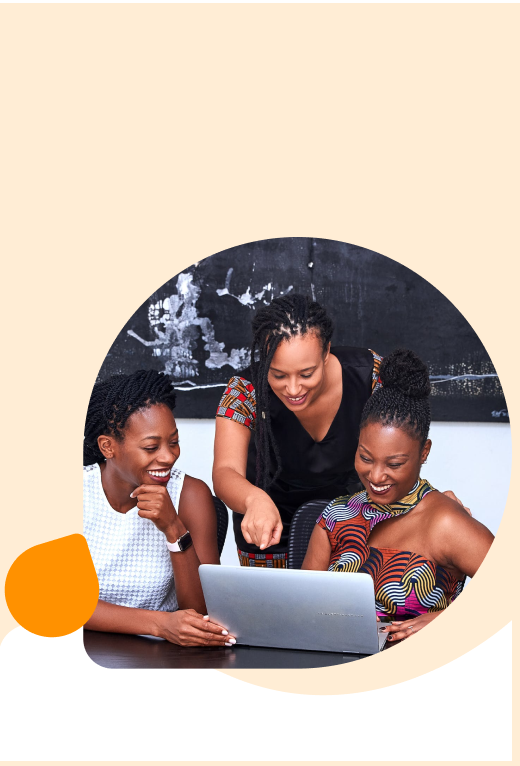
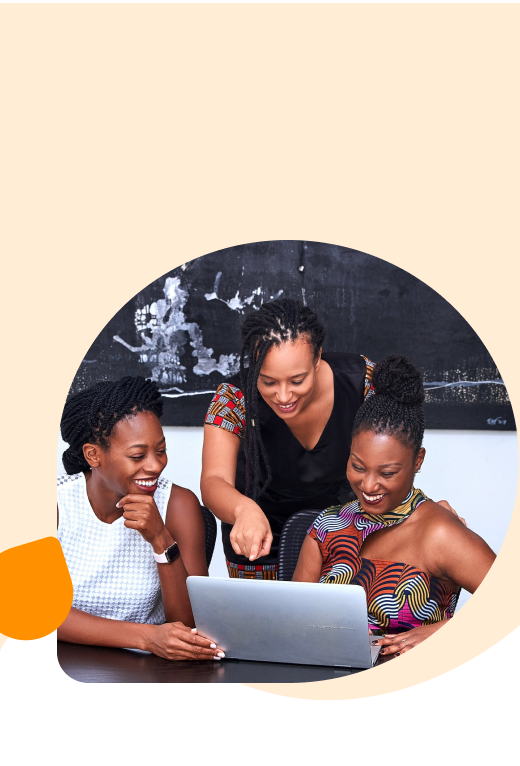
...our story

diff --git a/src/components/OurStory/style.scss b/src/components/OurStory/style.scss
@@ -27,22 +27,41 @@
         }
 
         .ourStory_bodyVideo{
-            width: 626px;
+            width: 100%;
             height: 424px;
-            background: url('../../assets/images/ourStoryImages/videoBg.png');
-            background-size: cover;
-            background-position: bottom right;
-            background-repeat: no-repeat;
-
+            
+            @media screen and (min-width: 900px) {
+                width: 55%;
+                background: url('../../assets/images/ourStoryImages/videoBg.png');
+                background-size: cover;
+                background-position: bottom;
+                background-repeat: no-repeat;
+                
+            }
+            
             .videoPlayer{
                 height: 354px;
-                width: 588px;
+                width: 100%;
                 border-radius: 16px;
+                background: $assets;
+
+                @media screen and (min-width: 900px) {
+                    max-width: 588px;
+                    
+                }
             }
         }
-
+        
         .ourStory_bodyText{
-            width: 510px;
+            width: 100%;
+            text-align: justify;
+
+            @media screen and (min-width: 900px) {
+                width: 45%;
+                max-width: 510px;
+                text-align: left;
+            }
+
             .ourStory_title{
                 color: $black;
                 margin-bottom: 1.5rem;

diff --git a/src/components/OurStory/index.jsx b/src/components/OurStory/index.jsx
@@ -7,15 +7,6 @@ export default function OurStory() {
       <div className="ourStory_content">
         <div className="ourStory_bodyVideo">
           <div className="videoPlayer">
-            <iframe
-              width="560"
-              height="315"
-              src="https://www.youtube.com/embed/9bZkp7q19f0"
-              frameborder="0"
-              allow="accelerometer; autoplay; encrypted-media; gyroscope; picture-in-picture"
-              allowfullscreen
-              title="video"
-            ></iframe>
           </div>
         </div>
         <div className="ourStory_bodyText">

diff --git a/src/components/AboutHero/style.scss b/src/components/AboutHero/style.scss
@@ -10,8 +10,8 @@
     padding: 2rem;
 
     @media screen and (min-width: 500px) and (max-width: 799px) {
-        background-size: 80%;
-        background-position: center right;
+        background-size: cover;
+        background-position: center;
     }
     
     @media screen and (min-width: 900px){
